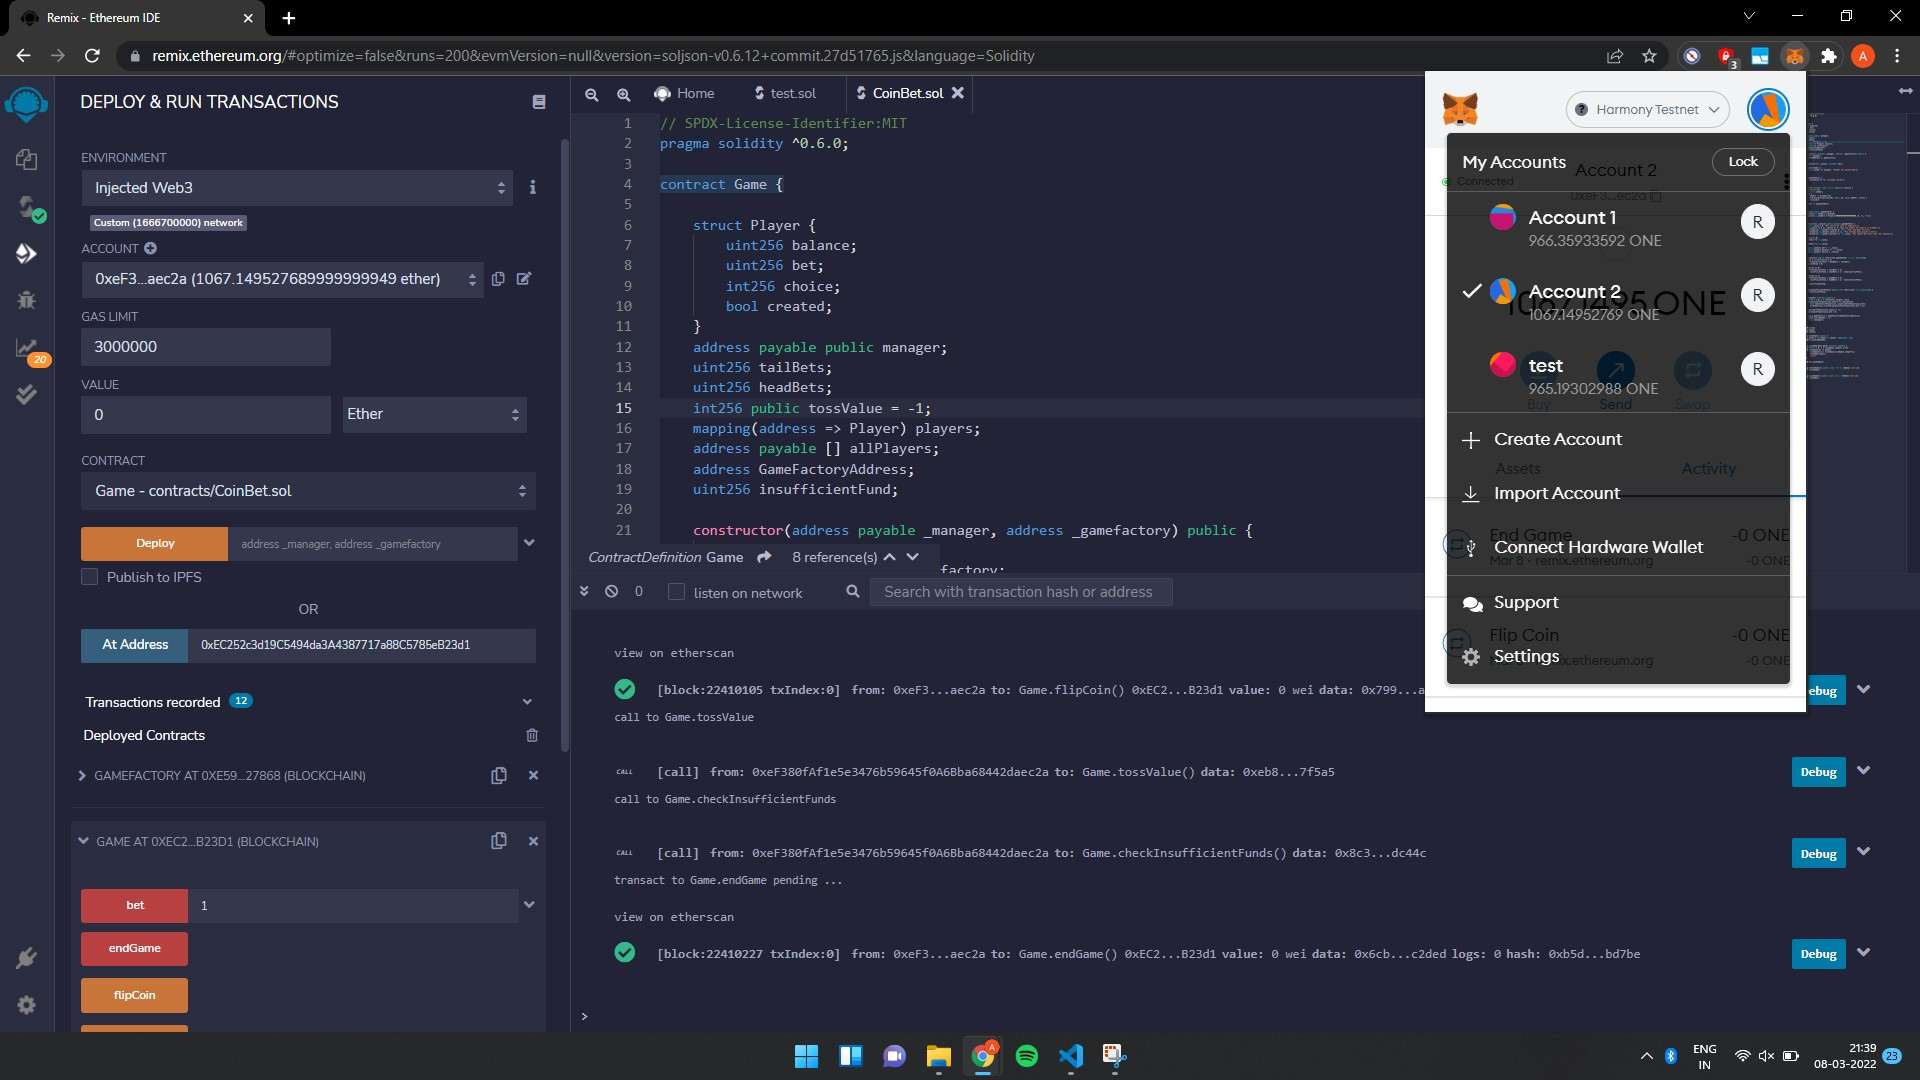
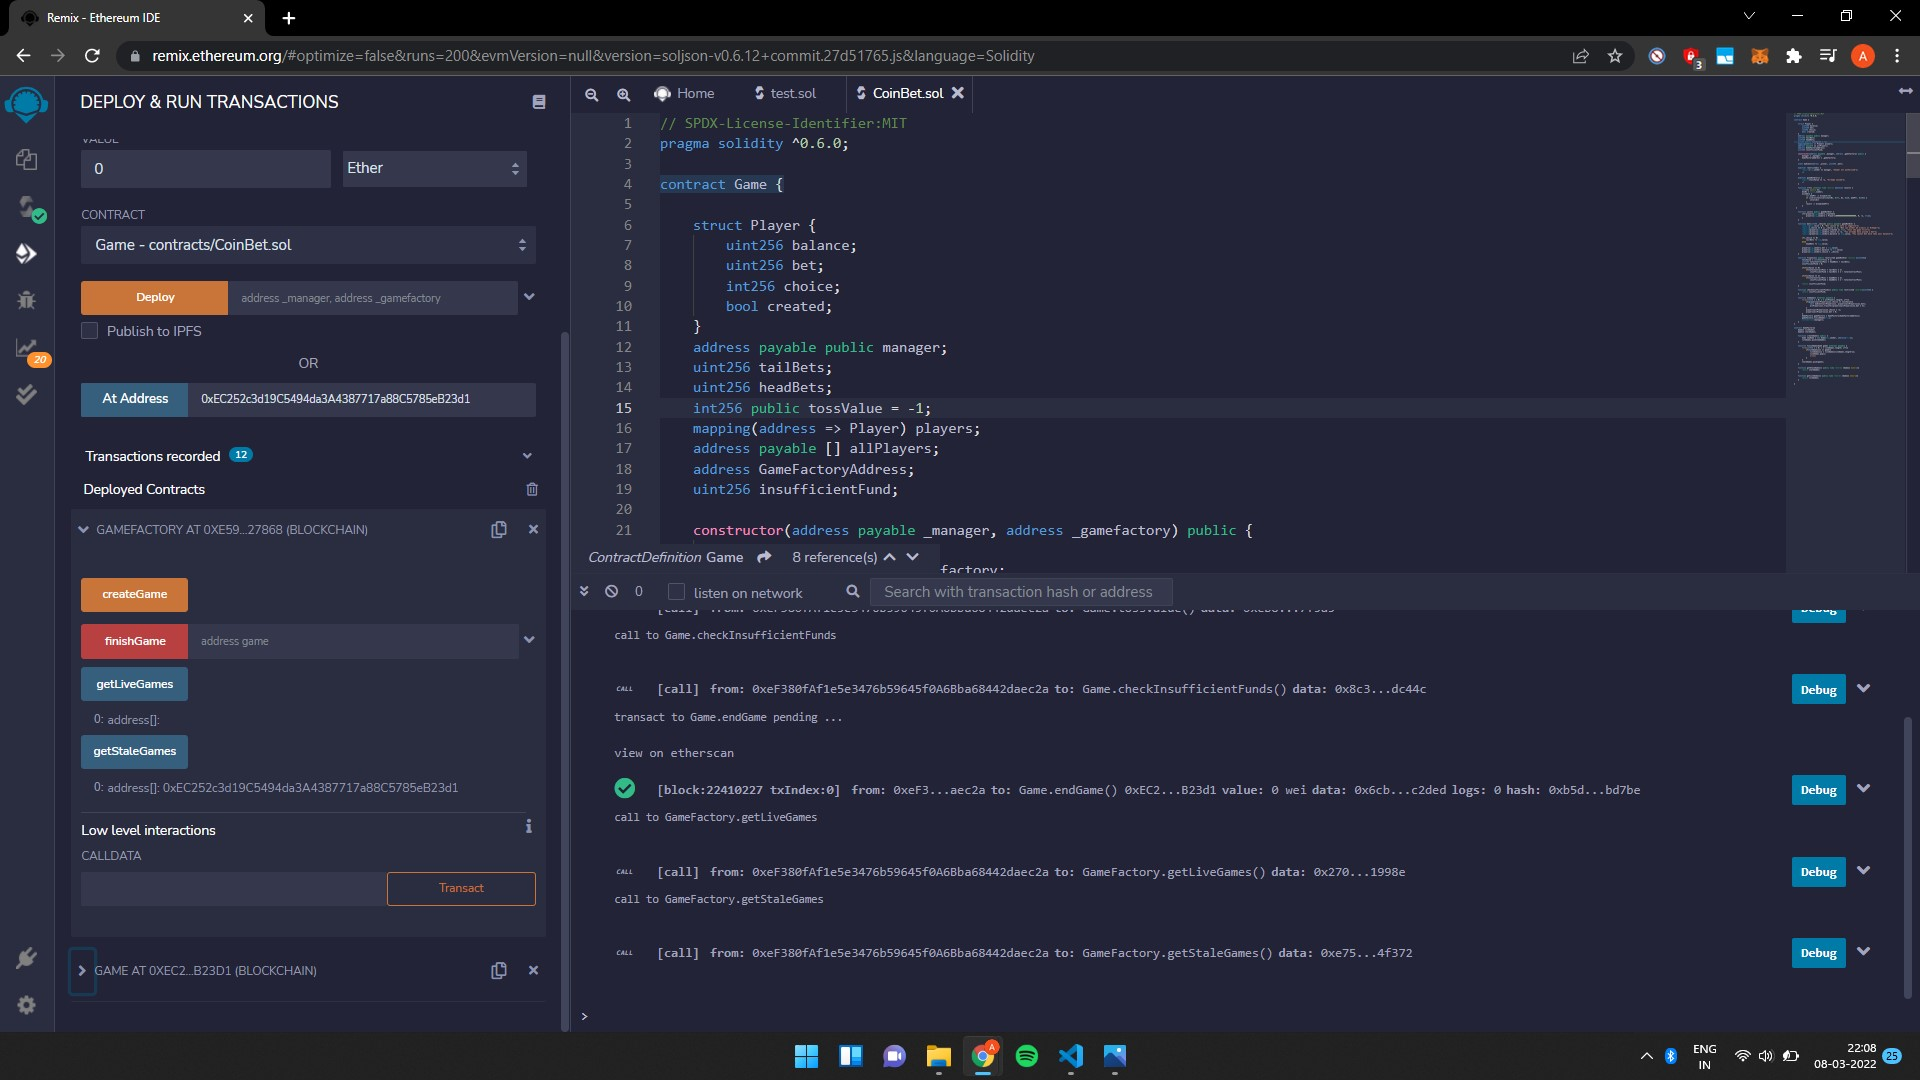
readme

diff --git a/README.md b/README.md
@@ -3,43 +3,35 @@
 # Coin Betting Dapp
 
 # Screenshots
-1. Deployed GameFactory
-[Deployed GameFactory]!(https://github.com/arxxv/dyeus-submission/blob/main/images/1.jpg)
 
-
-1. Deployed GameFactory
-[Deployed GameFactory]!(https://github.com/arxxv/dyeus-submission/blob/main/images/1.jpg)
-
+Each player is given 100 Ether for better visiual response while testing. The code has the limit of 100 wei.
 
 1. Deployed GameFactory
-[Deployed GameFactory]!(https://github.com/arxxv/dyeus-submission/blob/main/images/1.jpg)
+   <img src="https://github.com/arxxv/dyeus-submission/blob/main/images/1.jpg" alt="Deployed GameFactory" width="1200"/>
 
+2. Created a game. The new game gets push to the liveGames array
+   <img src="https://github.com/arxxv/dyeus-submission/blob/main/images/2.jpg" alt="Created a game. The new game gets push to the liveGames array" width="1200"/>
 
-1. Deployed GameFactory
-[Deployed GameFactory]!(https://github.com/arxxv/dyeus-submission/blob/main/images/1.jpg)
+3. Changed the account and joined the game
+   <img src="https://github.com/arxxv/dyeus-submission/blob/main/images/3.jpg" alt="Changed the account and joined the game" width="1200"/>
 
+4. Going to bet on tail (0) with 10 ether
+   <img src="https://github.com/arxxv/dyeus-submission/blob/main/images/4.jpg" alt="Deployed GameFactory" width="1200"/>
 
-1. Deployed GameFactory
-[Deployed GameFactory]!(https://github.com/arxxv/dyeus-submission/blob/main/images/1.jpg)
+5. Bet successful
+   <img src="https://github.com/arxxv/dyeus-submission/blob/main/images/5.jpg" alt="Bet successful" width="1200"/>
 
+6. Joined and placed a bet on heads (1) of 5 ether with third account
+   <img src="https://github.com/arxxv/dyeus-submission/blob/main/images/6jpg" alt="Joined and placed a bet on heads (1) of 5 ether with third account" width="1200"/>
 
-1. Deployed GameFactory
-[Deployed GameFactory]!(https://github.com/arxxv/dyeus-submission/blob/main/images/1.jpg)
+7. Trying to run flipCoin with the same account (Not the initiator of the game). Fails
+   <img src="https://github.com/arxxv/dyeus-submission/blob/main/images/7.jpg" alt="Deployed GameFactory" width="1200"/>
 
-1. Deployed GameFactory
-[Deployed GameFactory]!(https://github.com/arxxv/dyeus-submission/blob/main/images/1.jpg)
+8. Flipped the coin with the initiator account. tossValue shows that the toss resulted in head
+   <img src="https://github.com/arxxv/dyeus-submission/blob/main/images/8.jpg" alt="Flipped the coin with the initiator account. tossValue shows that the toss resulted in head" width="1200"/>
 
+9. Ending the game with endGame function
+   <img src="https://github.com/arxxv/dyeus-submission/blob/main/images/9.jpg" alt="Ending the game with endGame function" width="1200"/>
 
-1. Deployed GameFactory
-[Deployed GameFactory]!(https://github.com/arxxv/dyeus-submission/blob/main/images/1.jpg)
-
-
-1. Deployed GameFactory
-[Deployed GameFactory]!(https://github.com/arxxv/dyeus-submission/blob/main/images/1.jpg)
-
-
-1. Deployed GameFactory
-[Deployed GameFactory]!(https://github.com/arxxv/dyeus-submission/blob/main/images/1.jpg)
-
-
-  
+10. The game gets pushed to the staleGames array and gets removed from the liveGames array.
+    <img src="https://github.com/arxxv/dyeus-submission/blob/main/images/10.jpg" alt="Final balances of every player" width="1200"/>
